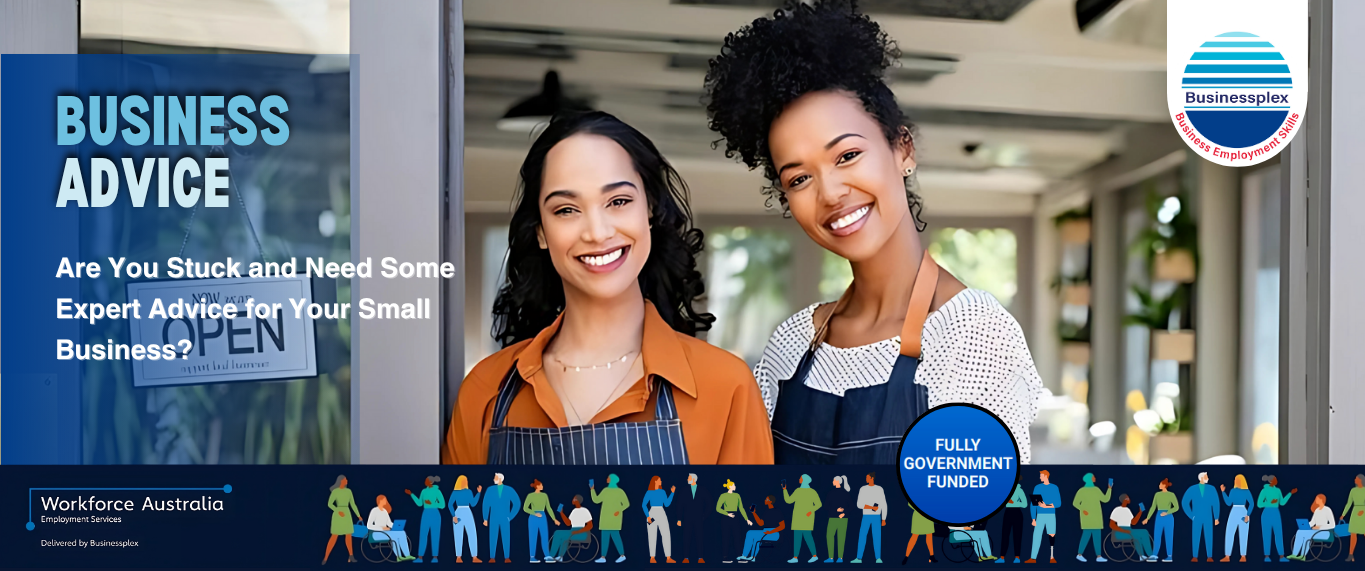
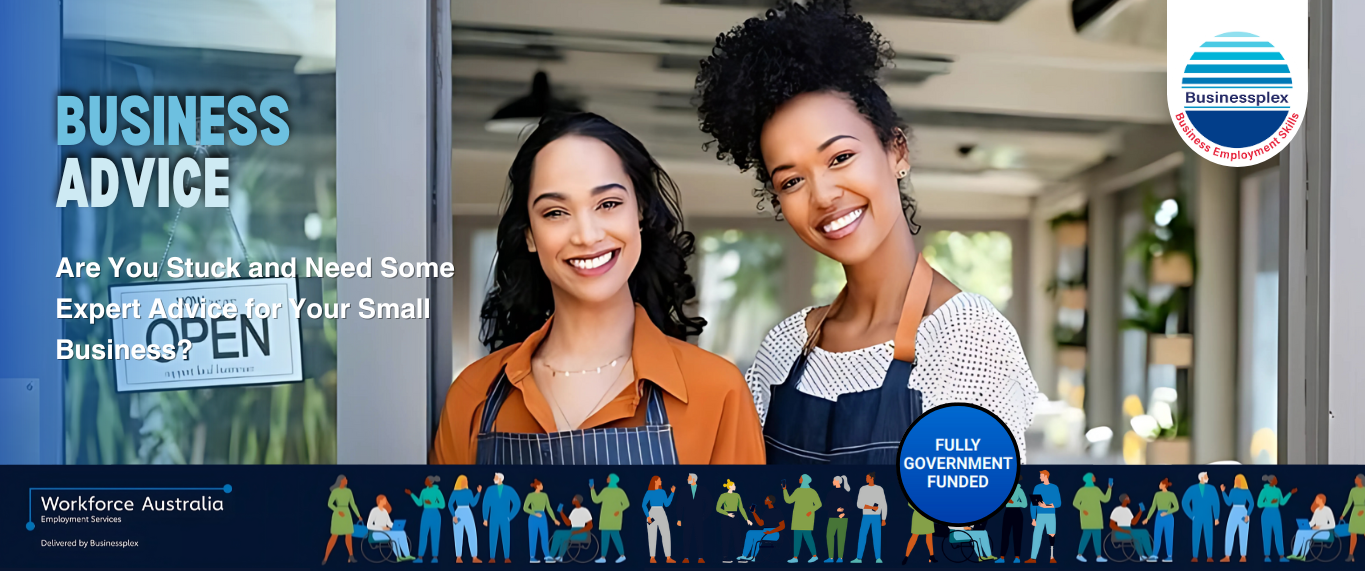
fix slide show error

diff --git a/frontend/src/components/layouts/Header.jsx b/frontend/src/components/layouts/Header.jsx
@@ -734,13 +734,13 @@ const handleApplyNow = (serviceTitle) => {
       <div className="relative md:mt-[74px] mt-0">
         <div
           ref={slideshowRef}
-          className={`${isMobile ? "h-[calc(100svh-64px)] pt-0" : "md:h-[calc(100vh-74px)]"} relative w-full overflow-hidden bg-gray-900 md:pt-0`}
+          className={`${isMobile ? "h-[calc(100svh-64px)] pt-0" : "md:h-[calc(100vh-74px)]"} relative w-full overflow-hidden bg-gray-900 md:pt-0 flex items-center justify-center`}
           style={isMobile ? { marginTop: "-20px" } : {}}  // Pull slideshow up in mobile view
         >
           {getCurrentImages().map((src, index) => (
             <div
               key={index}
-              className={`absolute inset-0 transition-all duration-1000 ease-in-out ${
+              className={`absolute inset-0 transition-all duration-1000 ease-in-out flex items-center justify-center overflow-hidden ${
                 index === currentIndex
                   ? "opacity-100 scale-100"
                   : "opacity-0 scale-105"
@@ -750,7 +750,7 @@ const handleApplyNow = (serviceTitle) => {
               <img
                 src={src}
                 alt={`Slide ${index + 1}`}
-                className="w-full h-full object-cover object-center"
+                className="w-full h-full object-contain object-center"
                 loading={index === 0 ? "eager" : "lazy"}
                 style={isMobile ? { 
                   objectFit: "cover", 
@@ -760,12 +760,19 @@ const handleApplyNow = (serviceTitle) => {
                   minHeight: "100%",
                   transform: "translateY(100px)"  // Move images downward more
                 } : { 
-                  objectFit: "cover", 
+                  objectFit: "contain", 
                   width: "100%", 
                   height: "100%",
                   minWidth: "100%",
                   minHeight: "100%",
-                  transform: "translateY(50px)"  // Move desktop images downward too
+                  maxWidth: "100%",
+                  maxHeight: "100%",
+                  margin: "auto",
+                  position: "absolute",
+                  top: "0",
+                  left: "0",
+                  right: "0",
+                  bottom: "0"
                 }}
               />
               {/* Overlay clickable area only on image_two */}
@@ -790,7 +797,7 @@ const handleApplyNow = (serviceTitle) => {
                   title="applyone_one"
                 />
               )}
-              <div className="absolute inset-0 bg-gradient-to-b from-black/20 via-transparent to-black/40" />
+              <div className="absolute inset-0 bg-gradient-to-b from-black/10 via-transparent to-black/20" />
             </div>
           ))}
 
